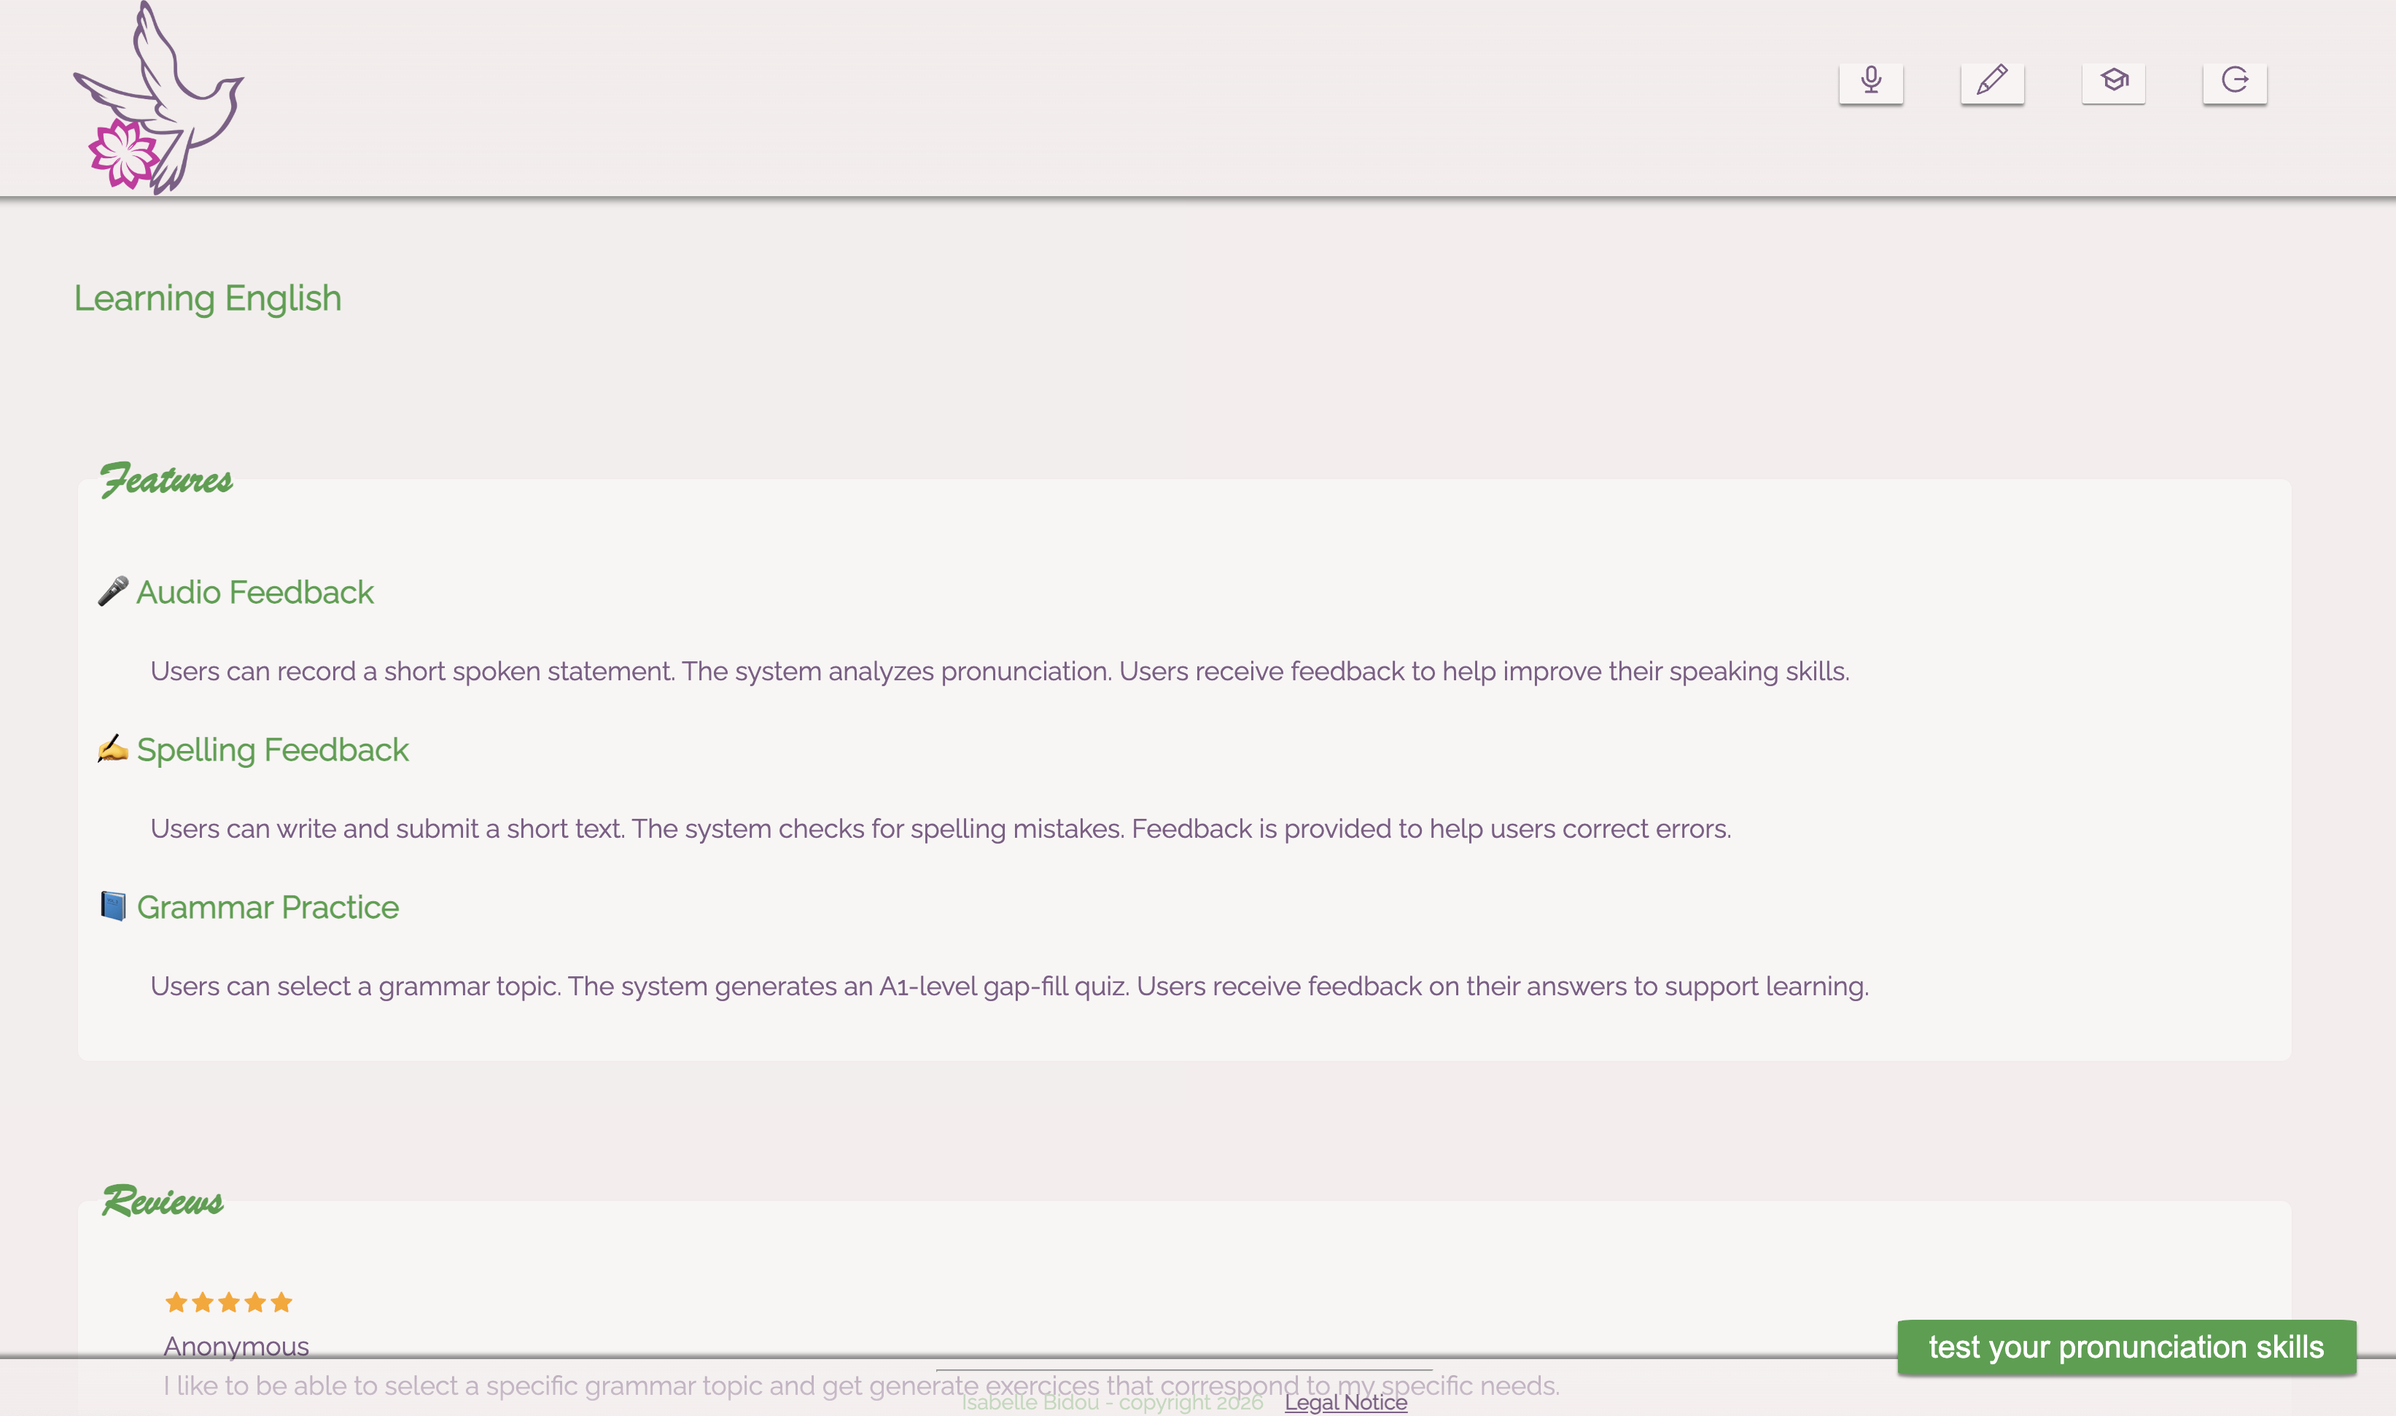
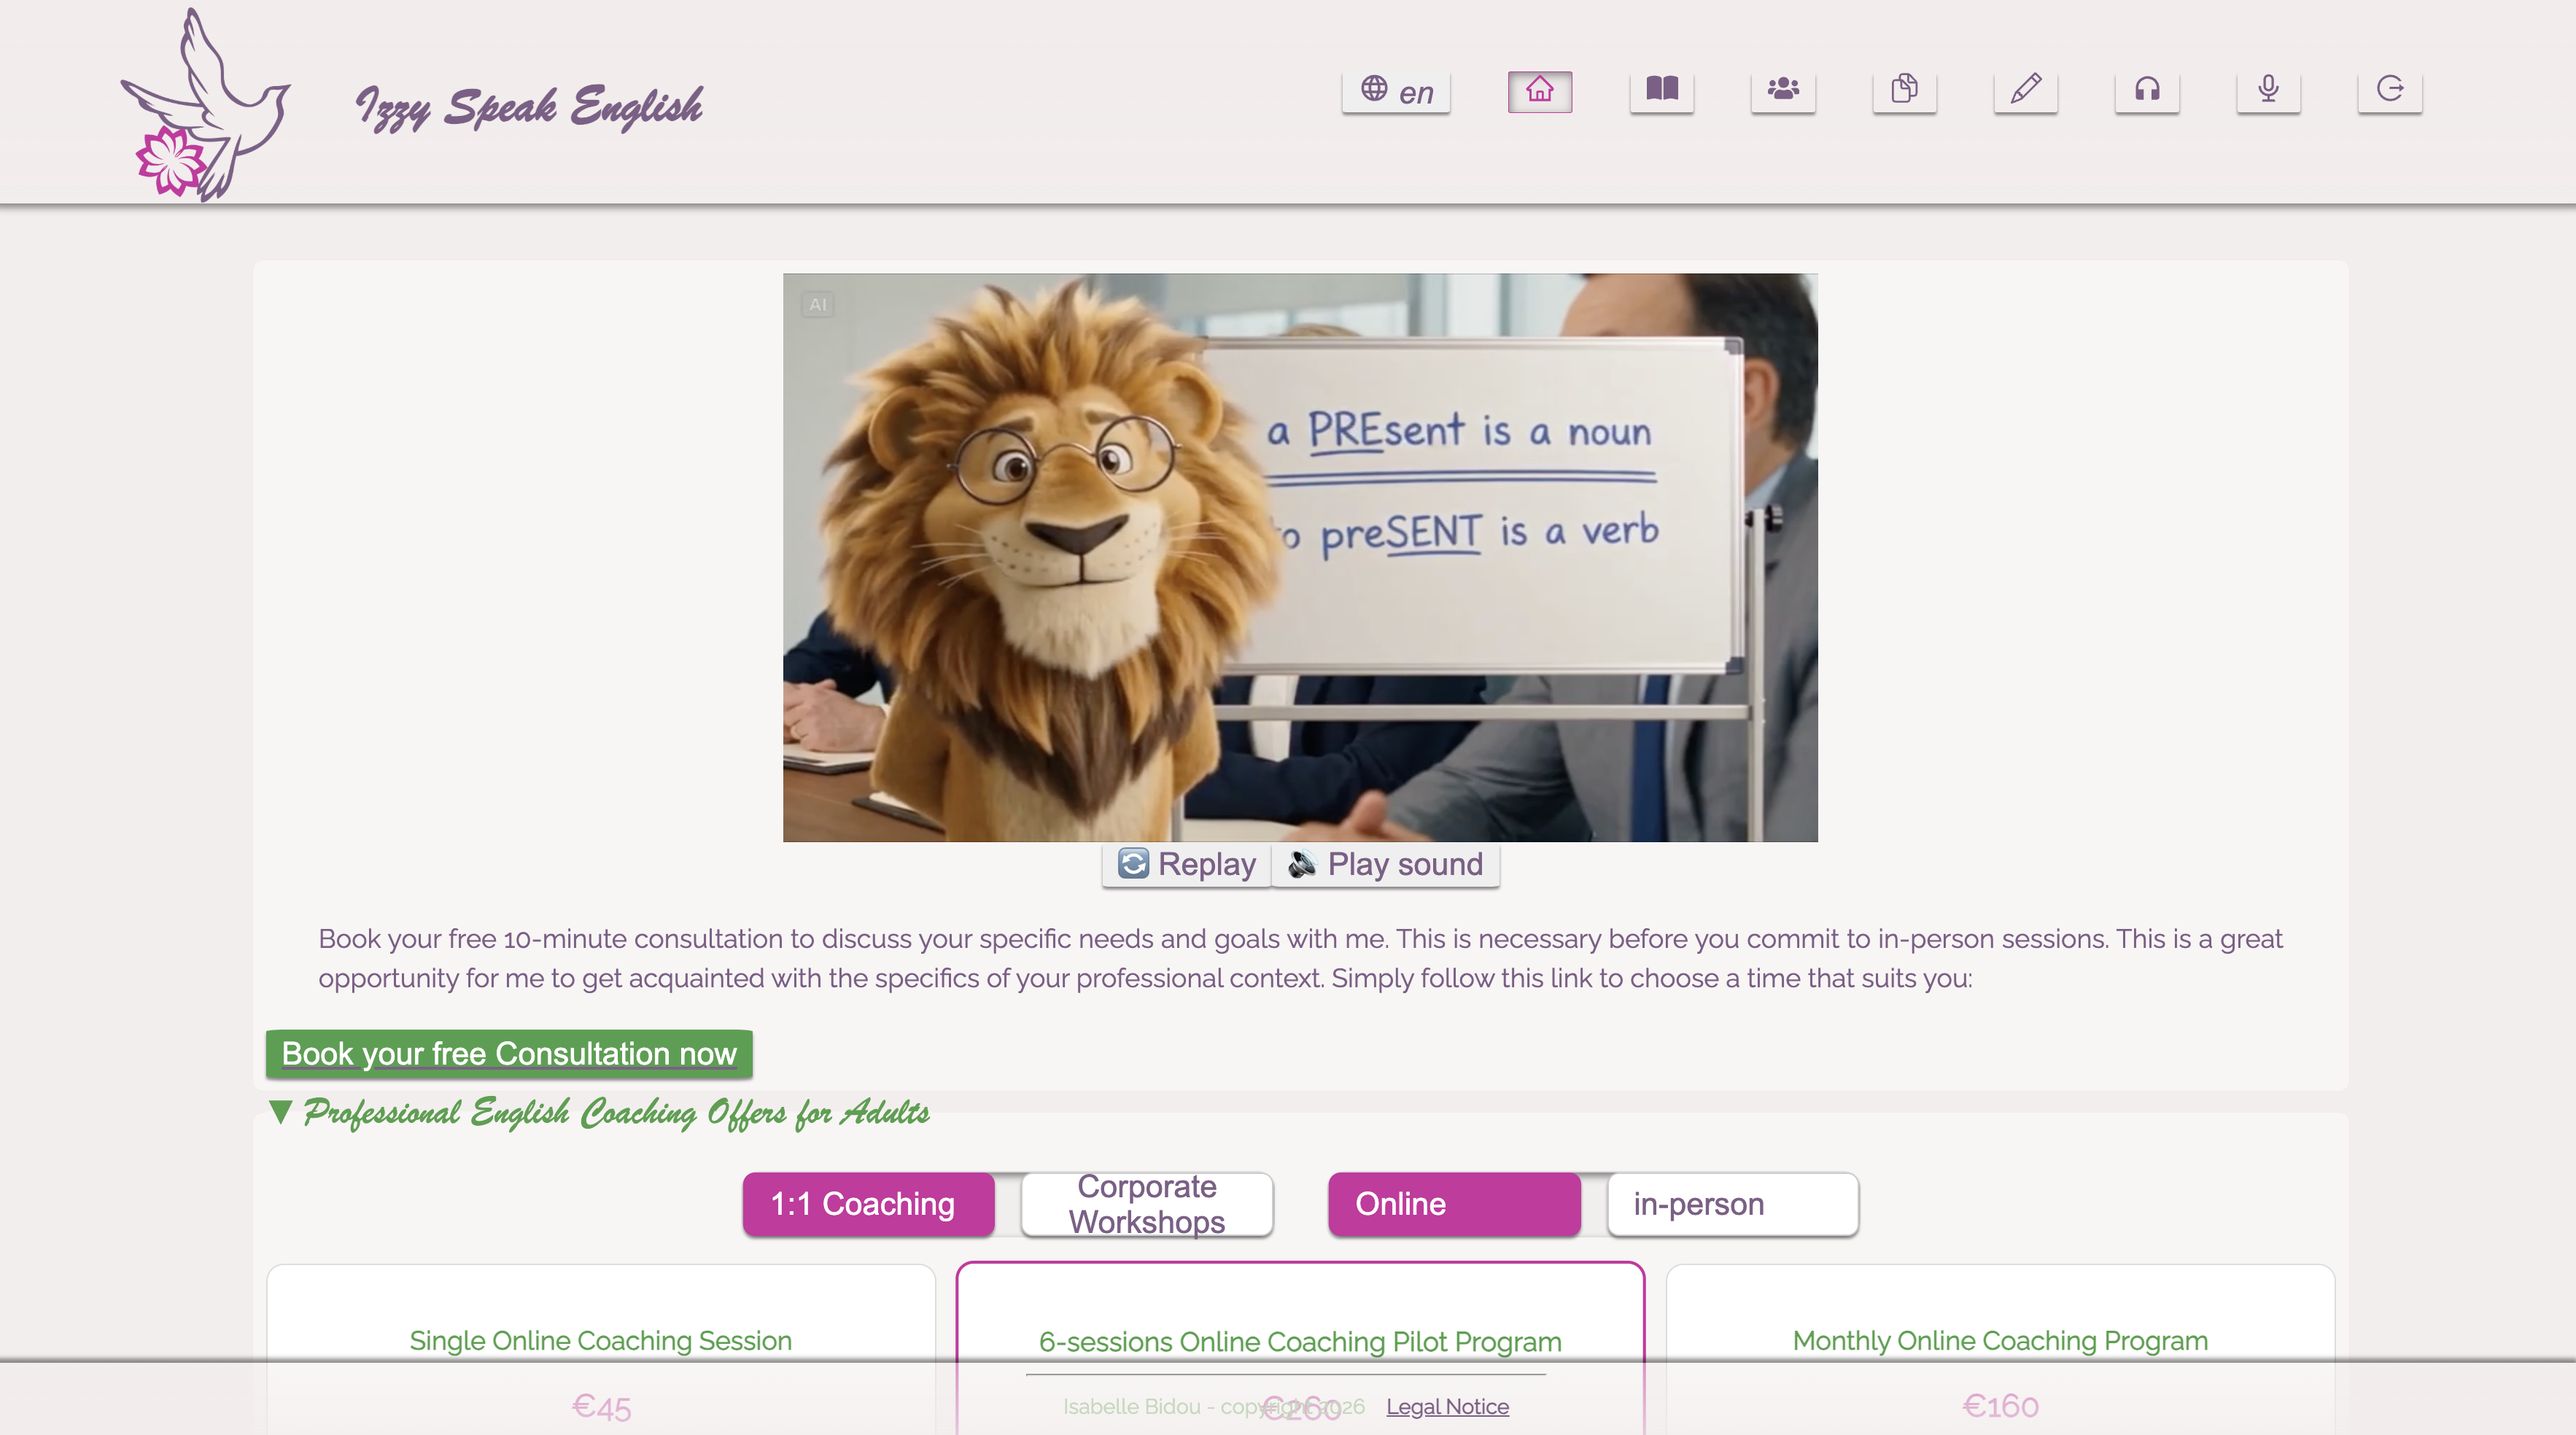
adding reference to articles

diff --git a/index.html b/index.html
@@ -1,4 +1,4 @@
-<!DOCTYPE html>
+<!doctype html>
 <html lang="en">
   <head>
     <title>isabelle Bidou</title>
@@ -9,10 +9,13 @@
       integrity="sha256-0YPKAwZP7Mp3ALMRVB2i8GXeEndvCq3eSl/WsAl1Ryk="
       crossorigin="anonymous"
     ></script>
-    <meta name="msapplication-TileColor" content="#D83434">
-	<meta name="msapplication-TileImage" content="homepageimages/favicon.ico">
-	<link rel="apple-touch-icon-precomposed" href="homepageimages/favicon.ico">
-	<link rel="icon" href="homepageimages/dancer512.png">
+    <meta name="msapplication-TileColor" content="#D83434" />
+    <meta name="msapplication-TileImage" content="homepageimages/favicon.ico" />
+    <link
+      rel="apple-touch-icon-precomposed"
+      href="homepageimages/favicon.ico"
+    />
+    <link rel="icon" href="homepageimages/dancer512.png" />
     <meta name="viewport" content="width=device-width,initial-scale=1" />
     <link rel="stylesheet" href="/scripts/app.css" type="text/css" />
   </head>
@@ -20,32 +23,38 @@
     <div id="container">
       <div class="header">
         <a class="logo h1 headertitle" href="/">isabellebidou.com</a>
-        
-        
-        <a class="nav_ul" href="https://aboutisabellebidou.d11rlor5kdnu66.amplifyapp.com/">about</a>
-        
+
+        <a
+          class="nav_ul"
+          href="https://aboutisabellebidou.d11rlor5kdnu66.amplifyapp.com/"
+          >about</a
+        >
       </div>
       <div class="maincontent">
-          
         <div class="grid-container">
-            <a class="div tooltip" href="https://izzyspeakenglish.com"
+          <a class="div tooltip" href="https://izzyspeakenglish.com"
             ><img
               class="photothumbnail"
               src="/homepageimages/teaching.png"
               alt="Izzy Speak English"
             /><span class="tooltiptext"
-              >Izzy Speak English is an AI Powered Platform that lets you generate on demand custom grammar exercice, test your English pronunciation and spelling with immediate feedback </span
-            ></a
+              >Izzy Speak English is an AI Powered Platform that lets you
+              generate on demand custom grammar exercice, test your English
+              pronunciation and spelling with immediate feedback
+            </span></a
           >
-          
-        <a class="div tooltip" href="https://calendar.app.google/znY72K9W2gZQohNw5"
+
+          <a
+            class="div tooltip"
+            href="https://calendar.app.google/znY72K9W2gZQohNw5"
             ><img
               class="photothumbnail"
               src="/homepageimages/booking.png"
               alt="googlecalenderbooking"
             /><span class="tooltiptext"
-              >Book a google appointment to discuss English professional coaching options </span
-            ></a
+              >Book a google appointment to discuss English professional
+              coaching options
+            </span></a
           >
           <a class="div tooltip" href="/moves"
             ><img
@@ -67,9 +76,7 @@
               src="/homepageimages/gallery.png"
               alt="Isabelle Bidou Photo Gallery"
             /><span class="tooltiptext">My photos :)</span></a
-          ><a
-            class="div tooltip"
-            href="/dvds"
+          ><a class="div tooltip" href="/dvds"
             ><img
               class="photothumbnail"
               src="/homepageimages/wdvd.png"
@@ -78,7 +85,15 @@
               >my dance notes to help you find where to find step instructions
               on the FCBD@Style dvds
             </span></a
-          ><a class="div tooltip" href="https://cheatsheet.isabellebidou.com/"
+          ><a class="div tooltip" href="https://articles.isabellebidou.com/"
+            ><img
+              class="photothumbnail"
+              src="/homepageimages/articles.png"
+              alt="Isabelle Bidou articles"
+            /><span class="tooltiptext">My articles</span></a
+          >
+          
+          <a class="div tooltip" href="https://cheatsheet.isabellebidou.com/"
             ><img
               class="photothumbnail"
               src="/homepageimages/cheatsheet.png"

diff --git a/scripts/app.css b/scripts/app.css
@@ -55,8 +55,8 @@ li.div {
 
 .photothumbnail {
 
-  height: 189px;
-  width: 241px;
+  height: 165px;
+  width: 250px;
   display: flex;              /* ✅ */
   justify-content: center;    /* horizontal center */
   align-items: center;        /* vertical center */ 
